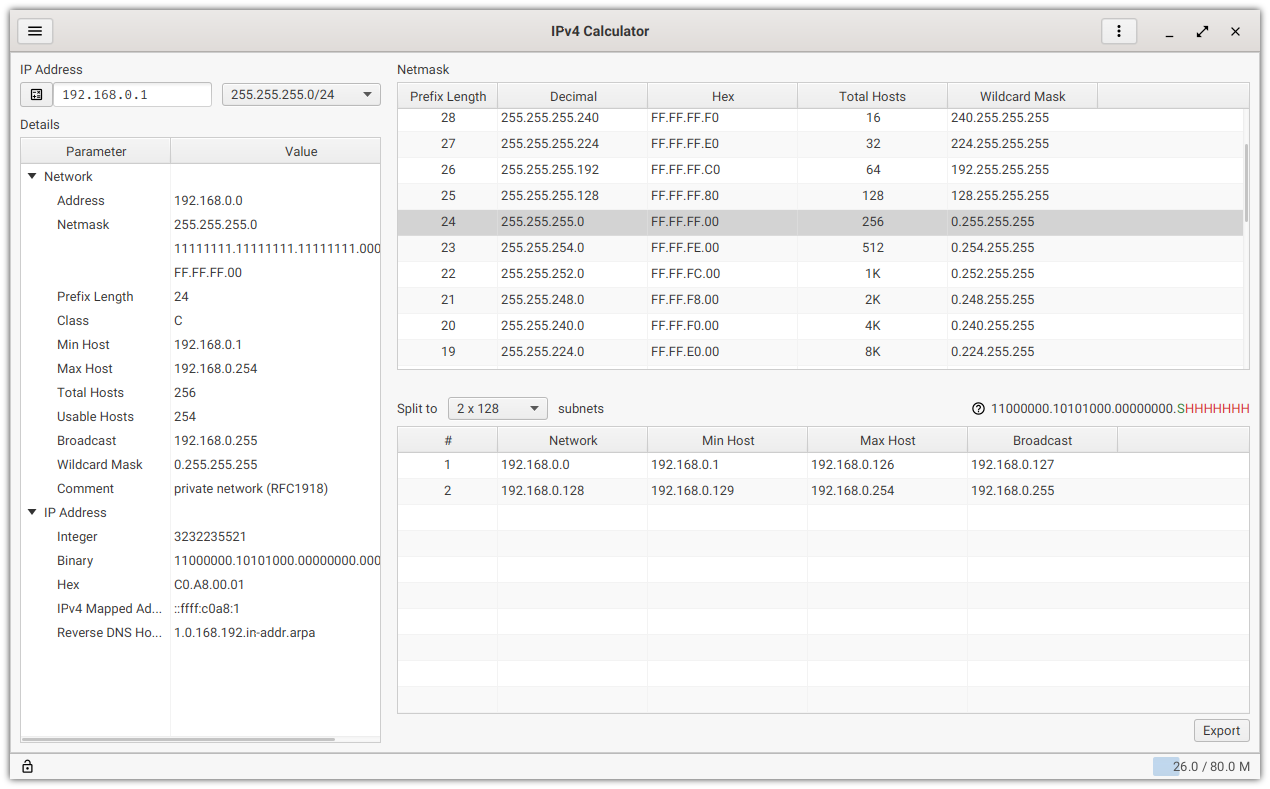
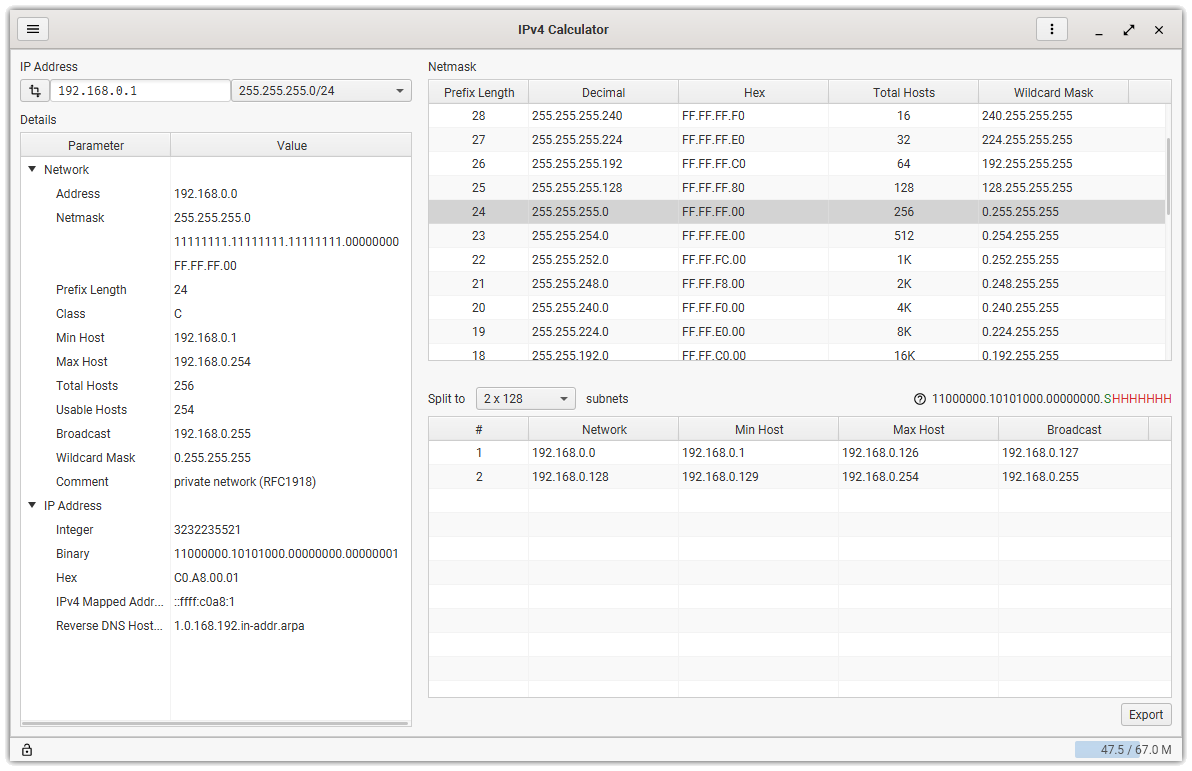
Improve IPv4 Calculator UI

diff --git a/telekit-desktop/src/main/java/org/telekit/desktop/tools/ipcalc/IPv4CalcView.java b/telekit-desktop/src/main/java/org/telekit/desktop/tools/ipcalc/IPv4CalcView.java
@@ -9,10 +9,14 @@ import javafx.scene.control.cell.TreeItemPropertyValueFactory;
 import javafx.scene.input.KeyCode;
 import javafx.scene.input.KeyCodeCombination;
 import javafx.scene.input.KeyCombination;
-import javafx.scene.layout.*;
+import javafx.scene.layout.HBox;
+import javafx.scene.layout.Priority;
+import javafx.scene.layout.Region;
+import javafx.scene.layout.VBox;
 import org.apache.commons.lang3.tuple.ImmutablePair;
 import org.apache.commons.lang3.tuple.Pair;
 import org.kordamp.ikonli.material2.Material2OutlinedAL;
+import org.kordamp.ikonli.material2.Material2OutlinedMZ;
 import org.telekit.base.desktop.Component;
 import org.telekit.base.desktop.Overlay;
 import org.telekit.base.desktop.mvvm.View;
@@ -89,7 +93,9 @@ public final class IPv4CalcView extends SplitPane implements Initializable, View
     private void createView() {
         // LEFT
 
-        ipConverterBtn = Controls.iconButton(Material2OutlinedAL.CALCULATE);
+        Label ipLabel = new Label(t(IP_ADDRESS));
+
+        ipConverterBtn = Controls.iconButton(Material2OutlinedMZ.TRANSFORM);
         ipConverterBtn.setMaxHeight(Double.MAX_VALUE);
         ipConverterBtn.setTooltip(new Tooltip(t(IPCALC_IP_ADDRESS_CONVERTER)));
         ipConverterBtn.setOnAction(e -> showIPConverter());
@@ -97,21 +103,15 @@ public final class IPv4CalcView extends SplitPane implements Initializable, View
         ipText = Controls.create(TextField::new, "monospace");
         ipText.setPrefWidth(200);
         ipText.setTextFormatter(TextFormatters.ipv4Decimal());
-
-        HBox ipBox = hbox(0, CENTER_LEFT, Insets.EMPTY);
-        ipBox.getChildren().setAll(ipConverterBtn, ipText);
+        HBox.setHgrow(ipText, Priority.ALWAYS);
 
         netmaskChoice = new ComboBox<>(observableArrayList(NETMASKS));
         netmaskChoice.setPrefWidth(200);
         netmaskChoice.setButtonCell(new NetmaskCell());
         netmaskChoice.setCellFactory(property -> new NetmaskCell());
 
-        GridPane ipGrid = gridPane(10, 5, Insets.EMPTY);
-        ipGrid.add(new Label(t(IP_ADDRESS)), 0, 0);
-        ipGrid.add(ipBox, 0, 1);
-
-        ipGrid.add(new Label(), 1, 0);
-        ipGrid.add(netmaskChoice, 1, 1);
+        HBox ipBox = hbox(0, CENTER_LEFT, Insets.EMPTY);
+        ipBox.getChildren().setAll(ipConverterBtn, ipText, netmaskChoice);
 
         Label detailsLabel = new Label(t(DETAILS));
         detailsLabel.setPadding(new Insets(5, 0, 0, 0));
@@ -120,7 +120,7 @@ public final class IPv4CalcView extends SplitPane implements Initializable, View
         VBox.setVgrow(detailsTable, Priority.ALWAYS);
 
         VBox leftBox = vbox(5, CENTER_LEFT, new Insets(0, 5, 0, 0));
-        leftBox.getChildren().setAll(ipGrid, detailsLabel, detailsTable);
+        leftBox.getChildren().setAll(ipLabel, ipBox, detailsLabel, detailsTable);
 
         // RIGHT
 
